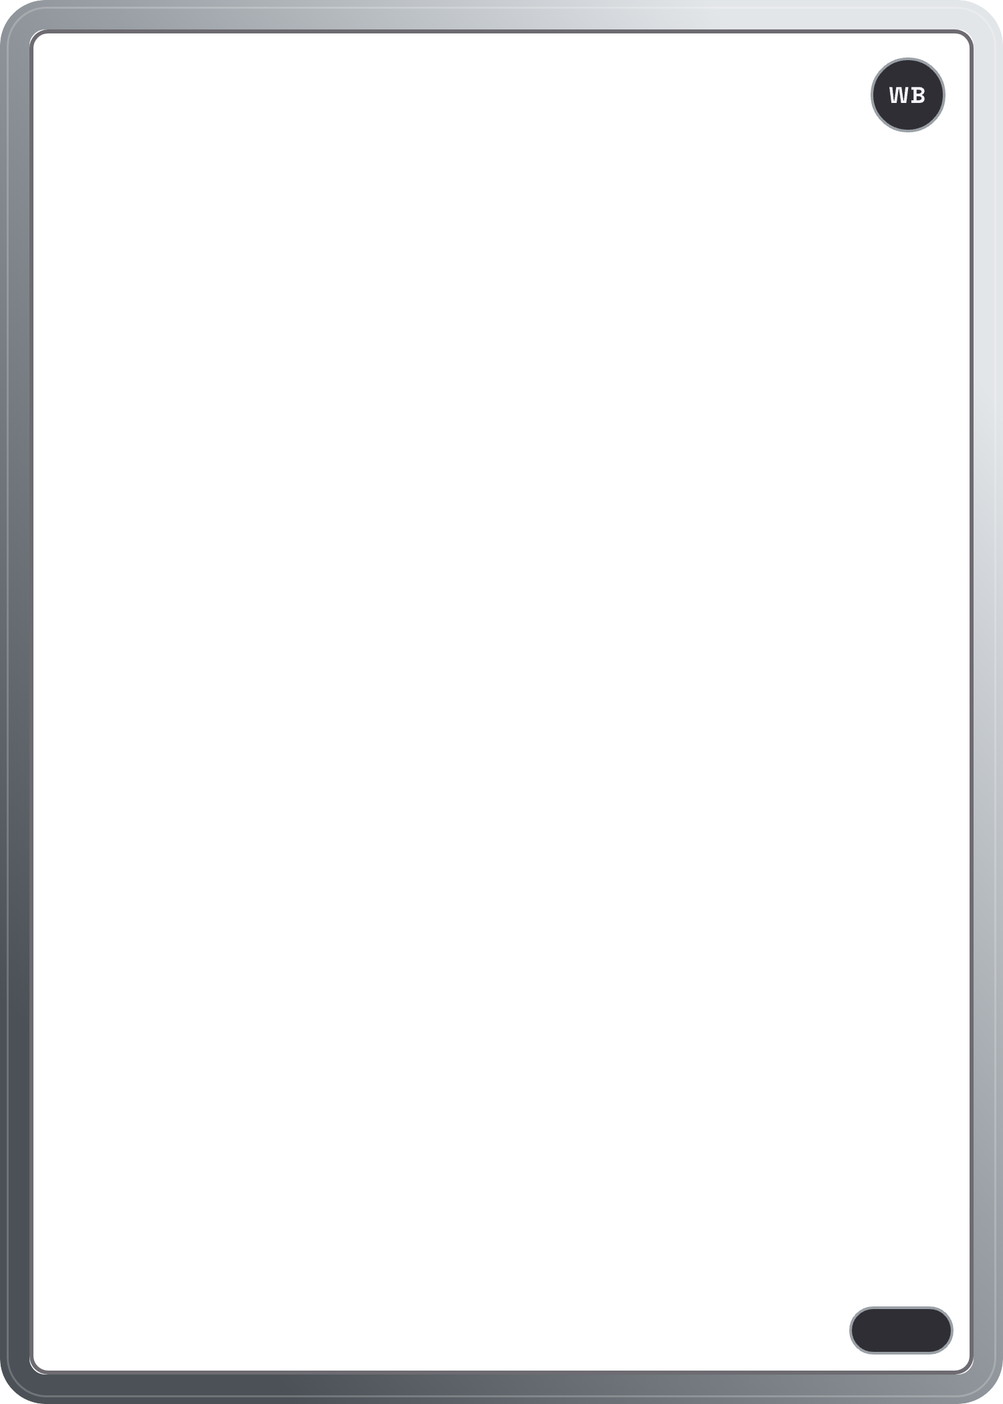
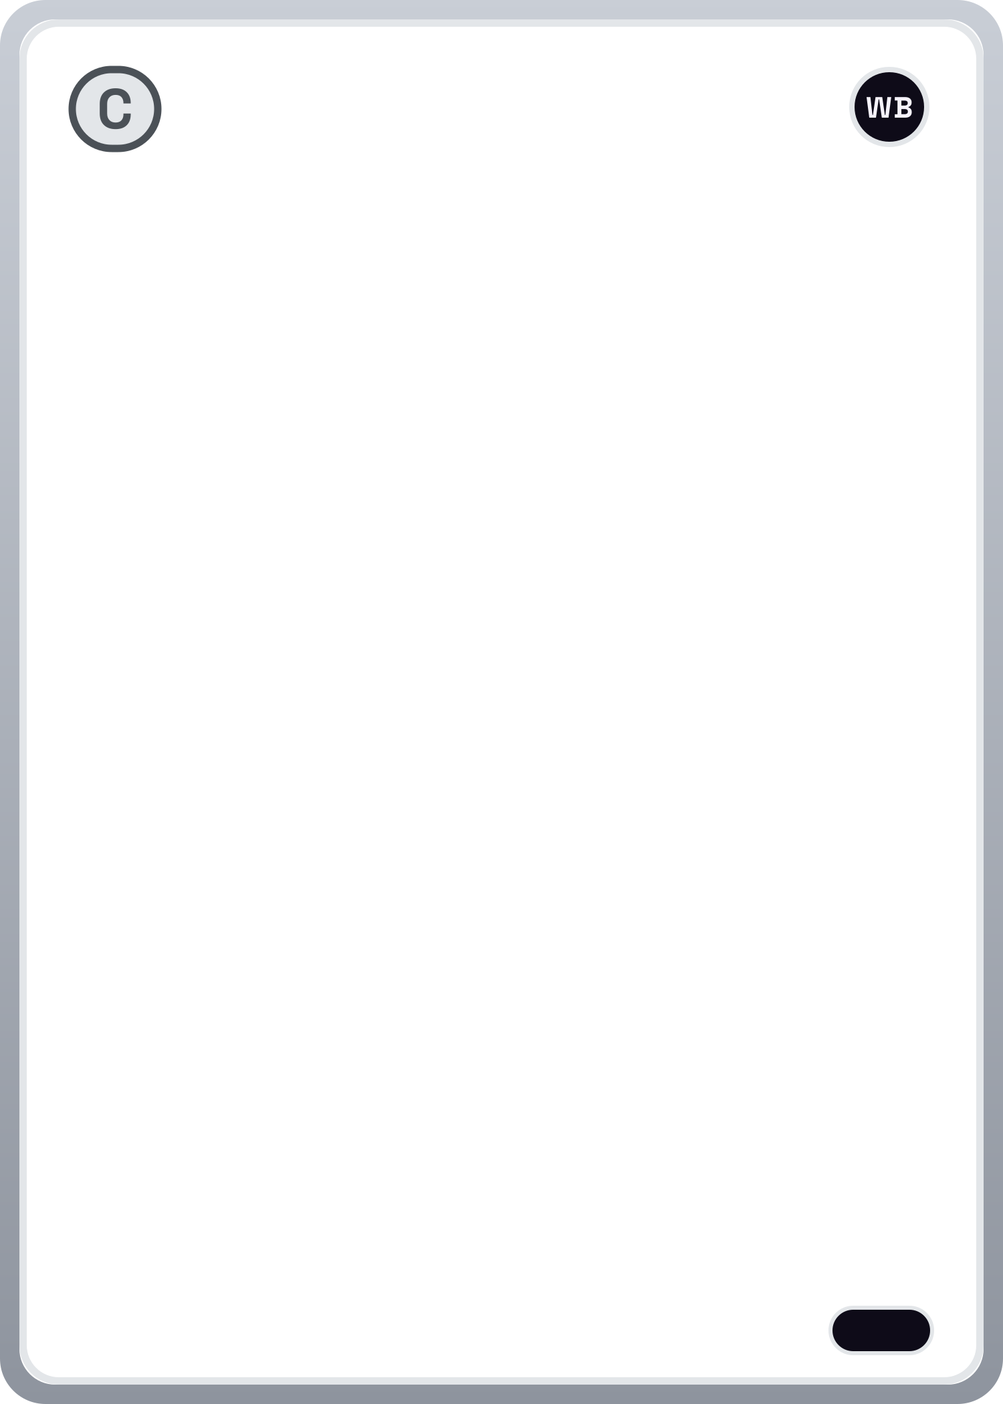
spec 022: marcos nuevos de las cinco rarezas, comunes planas, etiquetas plata/gold y tabla doble
Marcos de la maqueta aprobada en carta-capas.js (degradado, aura y grosor por escalón; sellos C, R, E,
LEG y EX) y en las cartas compuestas (scripts/frames.mjs). Las comunes no montan carta viva. La
etiqueta de tipo y Probabilidades siguen la maqueta; la migración 0017 cambia los sellos guardados.

Changed region(s): [[0.0, 0.0, 1.0, 1.0]]

diff --git a/apps/web/src/app/(app)/sobres/page.tsx b/apps/web/src/app/(app)/sobres/page.tsx
@@ -79,54 +79,54 @@ export default async function MisSobresPage() {
               // Spec 022, RF-19: el sobre gold va en su propio grupo y sus enlaces lo piden con `?k=gold`.
               const k = g.kind === "gold" ? "?k=gold" : "";
               return (
-              <li
-                key={`${g.setId}-${g.kind}`}
-                style={{ "--i": i } as React.CSSProperties}
-                className="card-in @container rounded-xl border border-k-lavanda/20 bg-linear-to-b from-ui-raised to-ui-nav p-5 shadow-[var(--shadow-glow)]"
-                data-testid={`group-${g.code}${g.kind === "gold" ? "-gold" : ""}`}
-                data-kind={g.kind}
-              >
-                <div className="flex flex-col items-center gap-5 @sm:flex-row">
-                  <div className="relative shrink-0">
-                    {/* Spec 014, RF-5 y RF-8: el sobre de la colección; detrás, la pila si hay más de uno. */}
-                    {g.sealed > 1 && <span aria-hidden className="absolute inset-x-3 inset-y-6 translate-x-3 rotate-6 rounded-xl bg-k-lavanda/30" />}
-                    <PackArt setId={g.setId} code={g.code} name={g.name} art={art.get(g.setId) ?? { coverVersion: null, packImage: null }} className="relative w-[200px] @sm:w-[170px]" />
-                  </div>
-                  <div className="flex w-full max-w-xs min-w-0 flex-1 flex-col gap-4 @sm:max-w-none">
-                    <div className="flex items-start justify-center gap-3 @sm:justify-between">
-                      <div className="hidden min-w-0 @sm:block">
-                        <p className="font-mono text-xs text-ui-text-3">{g.code}</p>
-                        <h2 className="line-clamp-2 font-display text-xl font-semibold">{g.name}</h2>
-                      </div>
-                      <div className="flex shrink-0 items-center gap-2">
-                        <PackKindTag kind={g.kind} label={t.common.packKind[g.kind]} />
-                        {!!fresh.get(g.setId) && (
-                          <span data-testid="new-packs">
-                            <Badge tone="new">{t.rewards.fx.newPacks(fresh.get(g.setId)!)}</Badge>
-                          </span>
-                        )}
-                        <Badge tone="accent" className="tabular-nums">x{g.sealed}</Badge>
-                      </div>
+                <li
+                  key={`${g.setId}-${g.kind}`}
+                  style={{ "--i": i } as React.CSSProperties}
+                  className="card-in @container rounded-xl border border-k-lavanda/20 bg-linear-to-b from-ui-raised to-ui-nav p-5 shadow-[var(--shadow-glow)]"
+                  data-testid={`group-${g.code}${g.kind === "gold" ? "-gold" : ""}`}
+                  data-kind={g.kind}
+                >
+                  <div className="flex flex-col items-center gap-5 @sm:flex-row">
+                    <div className="relative shrink-0">
+                      {/* Spec 014, RF-5 y RF-8: el sobre de la colección; detrás, la pila si hay más de uno. */}
+                      {g.sealed > 1 && <span aria-hidden className="absolute inset-x-3 inset-y-6 translate-x-3 rotate-6 rounded-xl bg-k-lavanda/30" />}
+                      <PackArt setId={g.setId} code={g.code} name={g.name} art={art.get(g.setId) ?? { coverVersion: null, packImage: null }} className="relative w-[200px] @sm:w-[170px]" />
                     </div>
-                    {g.locked ? (
-                      <p className="text-sm text-ui-danger-text">{t.packs.mine.locked}</p>
-                    ) : (
-                      <div className="flex flex-col gap-3">
-                        <Button size="lg" width="full" asChild>
-                          <Link href={`/sobres/${g.setId}${k}`}>{t.packs.mine.openOne}</Link>
-                        </Button>
-                        {g.sealed > 1 && (
-                          <Button size="lg" width="full" variant="secondary" asChild>
-                            <Link href={`/sobres/${g.setId}/todos${k}`}>{t.packs.mine.openAll(Math.min(g.sealed, 50))}</Link>
-                          </Button>
-                        )}
+                    <div className="flex w-full max-w-xs min-w-0 flex-1 flex-col gap-4 @sm:max-w-none">
+                      <div className="flex items-start justify-center gap-3 @sm:justify-between">
+                        <div className="hidden min-w-0 @sm:block">
+                          <p className="font-mono text-xs text-ui-text-3">{g.code}</p>
+                          <h2 className="line-clamp-2 font-display text-xl font-semibold">{g.name}</h2>
+                        </div>
+                        <div className="flex shrink-0 items-center gap-2">
+                          <PackKindTag kind={g.kind} label={t.common.packKind[g.kind]} />
+                          {!!fresh.get(g.setId) && (
+                            <span data-testid="new-packs">
+                              <Badge tone="new">{t.rewards.fx.newPacks(fresh.get(g.setId)!)}</Badge>
+                            </span>
+                          )}
+                          <Badge tone="accent" className="tabular-nums">x{g.sealed}</Badge>
+                        </div>
                       </div>
-                    )}
-                    {/* Spec 021, RF-9: cómo conseguir más sobres de una colección de Patreon (al final: las pruebas cuentan los enlaces de abrir). */}
-                    {!g.isFree && !g.locked && !patron && <PatreonNotice compact text={t.packs.mine.patreonMore} linkLabel={t.collection.patreon.link} url={patreonUrl} />}
+                      {g.locked ? (
+                        <p className="text-sm text-ui-danger-text">{t.packs.mine.locked}</p>
+                      ) : (
+                        <div className="flex flex-col gap-3">
+                          <Button size="lg" width="full" asChild>
+                            <Link href={`/sobres/${g.setId}${k}`}>{t.packs.mine.openOne}</Link>
+                          </Button>
+                          {g.sealed > 1 && (
+                            <Button size="lg" width="full" variant="secondary" asChild>
+                              <Link href={`/sobres/${g.setId}/todos${k}`}>{t.packs.mine.openAll(Math.min(g.sealed, 50))}</Link>
+                            </Button>
+                          )}
+                        </div>
+                      )}
+                      {/* Spec 021, RF-9: cómo conseguir más sobres de una colección de Patreon (al final: las pruebas cuentan los enlaces de abrir). */}
+                      {!g.isFree && !g.locked && !patron && <PatreonNotice compact text={t.packs.mine.patreonMore} linkLabel={t.collection.patreon.link} url={patreonUrl} />}
+                    </div>
                   </div>
-                </div>
-              </li>
+                </li>
               );
             })}
           </ul>

diff --git a/apps/web/src/app/drop-rates/page.tsx b/apps/web/src/app/drop-rates/page.tsx
@@ -40,56 +40,63 @@ export default async function DropRatesPage() {
                 <Badge tone={set.isFree ? "success" : "accent"}>{set.isFree ? t.site.dropRates.how.free : t.site.dropRates.how.patreon}</Badge>
               </span>
             </h2>
-            {/* Spec 022, RF-20: las dos tablas de la colección, plata y gold. */}
-            {([["silver", odds], ["gold", gold]] as const).map(([kind, table]) =>
-              table ? (
-                <div key={kind} className="space-y-2" data-testid={`odds-${set.code}-${kind}`}>
-                  <h3 className="flex flex-wrap items-center gap-2">
+            {/* Spec 022, RF-20: las dos tablas de la colección en una, con la columna «Sobre» (maqueta aprobada). */}
+            <ul className="space-y-1 text-sm">
+              {([["silver", odds], ["gold", gold]] as const).map(([kind, table]) =>
+                table ? (
+                  <li key={kind} className="flex flex-wrap items-center gap-2 text-ui-text-3" data-testid={`published-${set.code}-${kind}`}>
                     <PackKindTag kind={kind} label={t.common.packKind[kind]} />
-                    <span className="text-sm text-ui-text-2">{t.site.dropRates.guarantee[kind]}</span>
-                  </h3>
-                  <p className="text-sm text-ui-text-3">
-                    {t.site.dropRates.published({
-                      date: table.publishedAt ? formatDate(locale, table.publishedAt) : "",
-                      version: table.version,
-                      packSize: set.packSize,
-                      holo: pct(table.holoChance * 100),
-                    })}
-                  </p>
-                  {kind === "silver" && (
-                    <p className="text-sm text-ui-text-2" data-testid={`pity-${set.code}`}>
-                      {table.pityThreshold > 0 ? t.site.dropRates.pity(table.pityThreshold - 1) : t.site.dropRates.noPity}
-                    </p>
-                  )}
-                  <div className="overflow-x-auto rounded-l border border-ui-line">
-                    <table className="w-full text-sm">
-                      <thead className="bg-ui-raised text-xs uppercase tracking-wider text-ui-text-3">
-                        <tr>
-                          <th className="px-3 py-2 text-left">{t.site.dropRates.slot}</th>
+                    <span>
+                      {t.site.dropRates.guarantee[kind]}{" "}
+                      {t.site.dropRates.published({
+                        date: table.publishedAt ? formatDate(locale, table.publishedAt) : "",
+                        version: table.version,
+                        packSize: set.packSize,
+                        holo: pct(table.holoChance * 100),
+                      })}
+                    </span>
+                  </li>
+                ) : null,
+              )}
+            </ul>
+            <p className="text-sm text-ui-text-2" data-testid={`pity-${set.code}`}>
+              {odds.pityThreshold > 0 ? t.site.dropRates.pity(odds.pityThreshold - 1) : t.site.dropRates.noPity}
+            </p>
+            <div className="overflow-x-auto rounded-l border border-ui-line">
+              <table className="w-full text-sm">
+                <thead className="bg-ui-raised text-xs uppercase tracking-wider text-ui-text-3">
+                  <tr>
+                    <th className="px-3 py-2 text-left">{t.site.dropRates.pack}</th>
+                    <th className="px-3 py-2 text-left">{t.site.dropRates.slot}</th>
+                    {RARITIES.map((r) => (
+                      <th key={r} className="px-3 py-2 text-right">
+                        {t.common.rarity[r]}
+                      </th>
+                    ))}
+                  </tr>
+                </thead>
+                {([["silver", odds], ["gold", gold]] as const).map(([kind, table]) =>
+                  table ? (
+                    <tbody key={kind} data-testid={`odds-${set.code}-${kind}`} className={kind === "gold" ? "bg-k-limon/7" : "bg-ui-nav"}>
+                      {table.slots.map((s, i) => (
+                        <tr key={i} className="border-t border-ui-line">
+                          <td className={`px-3 py-2 font-semibold ${kind === "gold" ? "text-k-limon-oscuro" : "text-ui-text-2"}`}>{t.common.packKind[kind]}</td>
+                          <td className="px-3 py-2">
+                            {i + 1}
+                            {i === table.slots.length - 1 && <span className="ml-1 text-ui-text-3">{t.site.dropRates.guaranteedSlot}</span>}
+                          </td>
                           {RARITIES.map((r) => (
-                            <th key={r} className="px-3 py-2 text-right">
-                              {t.common.rarity[r]}
-                            </th>
+                            <td key={r} className="px-3 py-2 text-right tabular-nums">
+                              {s[r] ? pct(s[r]) : "—"}
+                            </td>
                           ))}
                         </tr>
-                      </thead>
-                      <tbody>
-                        {table.slots.map((s, i) => (
-                          <tr key={i} className="border-t border-ui-line">
-                            <td className="px-3 py-2">{i + 1}</td>
-                            {RARITIES.map((r) => (
-                              <td key={r} className="px-3 py-2 text-right tabular-nums">
-                                {s[r] ? pct(s[r]) : "—"}
-                              </td>
-                            ))}
-                          </tr>
-                        ))}
-                      </tbody>
-                    </table>
-                  </div>
-                </div>
-              ) : null,
-            )}
+                      ))}
+                    </tbody>
+                  ) : null,
+                )}
+              </table>
+            </div>
           </section>
         ))}
         {/* Spec 020, RF-26: probabilidad de encontrar un sobre al volver de una expedición, por zona y duración. */}

diff --git a/apps/web/src/ui/game/carta-capas/carta-capas.js b/apps/web/src/ui/game/carta-capas/carta-capas.js
@@ -7,7 +7,7 @@
  *   const carta = CartaCapas.montar(document.querySelector('#carta'), {
  *     etiqueta: 'Yuki, SSR',
  *     marco: 'ssr',                       // 'ur' | 'ssr' | 'sr' | 'r' | 'n' | 'ninguno' | un gradiente CSS
- *     borde: 2.2,                         // grosor del marco en % del ancho
+ *     borde: 2.2,                         // grosor del marco en % del ancho (sin él, el de su escalón)
  *     capas: [                            // de atrás hacia adelante
  *       { src: 'yuki_1_fondo.webp',       profundidad: 0.2,  margen: 5 },
  *       { particulas: 'destellos-dorados', profundidad: 0.55, margen: 4 },
@@ -48,12 +48,14 @@
 (function (global) {
   'use strict';
 
+  // Spec 022, RF-9: los marcos de la maqueta aprobada (lámina «Rarezas y sobres plata y gold»): degradado, aura y
+  // grosor propio de cada escalón (n común, r rara, sr épica, ssr legendaria, ur EX).
   var MARCOS = {
-    ur:  ['linear-gradient(135deg,#ff7aa8 0%,#ffd36e 17%,#8af0c4 33%,#ffffff 48%,#6ec8ff 62%,#c79bff 80%,#ff7aa8 100%)', 'rgba(200,160,255,.28)'],
-    ssr: ['linear-gradient(135deg,#6e4a12 0%,#f7dc8a 18%,#b9862d 34%,#fff3c4 48%,#a0701f 62%,#f2cf6e 80%,#6e4a12 100%)', 'rgba(240,190,90,.24)'],
-    sr:  ['linear-gradient(135deg,#4b2a7a 0%,#d4b8ff 20%,#8a5cd6 38%,#f1e6ff 50%,#7344c2 64%,#c9a6ff 82%,#4b2a7a 100%)', 'rgba(170,120,255,.22)'],
-    r:   ['linear-gradient(135deg,#1f3f7a 0%,#a9ccff 20%,#4a7fd6 38%,#e6f0ff 50%,#3c6cc2 64%,#9cc2ff 82%,#1f3f7a 100%)', 'rgba(110,160,255,.2)'],
-    n:   ['linear-gradient(135deg,#5a6070 0%,#e4e8ef 22%,#9aa1b0 40%,#ffffff 50%,#8a91a0 64%,#d6dbe4 82%,#5a6070 100%)', 'rgba(220,225,235,.12)']
+    ur:  ['conic-gradient(from 90deg,#ff7eb6,#b79cff,#7cc8ff,#7ef0c9,#ff7eb6)', 'rgba(255,126,182,.34)', 4.8],
+    ssr: ['linear-gradient(135deg,#fff1a8 0%,#f5c451 45%,#b7791f 100%)', 'rgba(245,196,81,.32)', 4.3],
+    sr:  ['linear-gradient(135deg,#e9b8ff 0%,#8b3fd9 100%)', 'rgba(139,63,217,.3)', 3.3],
+    r:   ['linear-gradient(135deg,#9fd3ff 0%,#3b82f6 100%)', 'rgba(59,130,246,.22)', 2.9],
+    n:   ['linear-gradient(180deg,#c9ced6 0%,#8e949e 100%)', 'rgba(220,225,235,.12)', 1.9]
   };
   MARCOS.epica = MARCOS.sr; MARCOS.rara = MARCOS.r; MARCOS.comun = MARCOS.n;
 
@@ -201,7 +203,7 @@
   function montar(el, opciones) {
     inyectarCSS();
     var op = Object.assign({
-      capas: [], sello: null, marco: 'ssr', aura: null, borde: 2.2, holo: false,
+      capas: [], sello: null, marco: 'ssr', aura: null, borde: null, holo: false,
       profundidad: 14, inclinacion: 14, reposo: true, zona: null,
       proporcion: 700 / 991, etiqueta: 'Carta', aparecer: true
     }, opciones || {});
@@ -259,7 +261,7 @@
       card.classList.toggle('cc-sin-marco', sin);
       card.style.setProperty('--cc-marco', sin ? 'none' : m[0]);
       card.style.setProperty('--cc-aura', op.aura || m[1] || 'rgba(255,255,255,.12)');
-      card.style.setProperty('--cc-borde', num(op.borde, 2.2) + 'cqw');
+      card.style.setProperty('--cc-borde', num(op.borde, m[2] || 2.2) + 'cqw');
       card.classList.toggle('cc-con-holo', !!op.holo);
 
       if (primera && op.aparecer) {
@@ -401,11 +403,11 @@
 
   /* ---------- presets por rareza ---------- */
   var PRESETS = {
-    n:   { marco: 'n',   particulas: null, sello: null, holo: false },
-    r:   { marco: 'r',   particulas: { particulas: 'destellos-arcoiris', cantidad: 16, tamano: 0.8, opacidad: 0.75 }, sello: null, holo: false },
-    sr:  { marco: 'sr',  particulas: { particulas: 'destellos-arcoiris', cantidad: 36 }, sello: { texto: 'SR', estilo: 'morado', tamano: 12 }, holo: false },
-    ssr: { marco: 'ssr', particulas: { particulas: 'destellos-dorados', cantidad: 55 }, sello: { texto: 'SSR', estilo: 'oro', tamano: 14 }, holo: false },
-    ur:  { marco: 'ur',  particulas: { particulas: 'destellos-arcoiris', cantidad: 65 }, sello: { texto: 'UR', estilo: 'arcoiris', tamano: 14 }, holo: true }
+    n:   { marco: 'n',   particulas: null, sello: { texto: 'C', estilo: 'plata', tamano: 10 }, holo: false },
+    r:   { marco: 'r',   particulas: { particulas: 'destellos-arcoiris', cantidad: 16, tamano: 0.8, opacidad: 0.75 }, sello: { texto: 'R', estilo: 'azul', tamano: 10 }, holo: false },
+    sr:  { marco: 'sr',  particulas: { particulas: 'destellos-arcoiris', cantidad: 36 }, sello: { texto: 'E', estilo: 'morado', tamano: 12 }, holo: false },
+    ssr: { marco: 'ssr', particulas: { particulas: 'destellos-dorados', cantidad: 55 }, sello: { texto: 'LEG', estilo: 'oro', tamano: 13 }, holo: false },
+    ur:  { marco: 'ur',  particulas: { particulas: 'destellos-arcoiris', cantidad: 65 }, sello: { texto: 'EX', estilo: 'arcoiris', tamano: 14 }, holo: true }
   };
   PRESETS.comun = PRESETS.n; PRESETS.rara = PRESETS.r; PRESETS.epica = PRESETS.sr;
 

diff --git a/apps/web/src/domain/cards/layers-rarity.ts b/apps/web/src/domain/cards/layers-rarity.ts
@@ -10,11 +10,12 @@ interface Preset {
 
 /** Los mismos valores que `PRESETS` de carta-capas.js (n, r, sr, ssr, ur). */
 export const TIER_PRESETS: Record<RarityTier, Preset> = {
-  n: { particles: null, seal: null, holo: false },
-  r: { particles: { particulas: "destellos-arcoiris", cantidad: 16, tamano: 0.8, opacidad: 0.75 }, seal: null, holo: false },
-  sr: { particles: { particulas: "destellos-arcoiris", cantidad: 36 }, seal: { texto: "SR", estilo: "morado", tamano: 12 }, holo: false },
-  ssr: { particles: { particulas: "destellos-dorados", cantidad: 55 }, seal: { texto: "SSR", estilo: "oro", tamano: 14 }, holo: false },
-  ur: { particles: { particulas: "destellos-arcoiris", cantidad: 65 }, seal: { texto: "UR", estilo: "arcoiris", tamano: 14 }, holo: true },
+  // Spec 022: un sello por rareza, como en la maqueta (C, R, E, LEG, EX).
+  n: { particles: null, seal: { texto: "C", estilo: "plata", tamano: 10 }, holo: false },
+  r: { particles: { particulas: "destellos-arcoiris", cantidad: 16, tamano: 0.8, opacidad: 0.75 }, seal: { texto: "R", estilo: "azul", tamano: 10 }, holo: false },
+  sr: { particles: { particulas: "destellos-arcoiris", cantidad: 36 }, seal: { texto: "E", estilo: "morado", tamano: 12 }, holo: false },
+  ssr: { particles: { particulas: "destellos-dorados", cantidad: 55 }, seal: { texto: "LEG", estilo: "oro", tamano: 13 }, holo: false },
+  ur: { particles: { particulas: "destellos-arcoiris", cantidad: 65 }, seal: { texto: "EX", estilo: "arcoiris", tamano: 14 }, holo: true },
 };
 
 /**

diff --git a/apps/web/src/server/services/live-card.ts b/apps/web/src/server/services/live-card.ts
@@ -3,7 +3,7 @@
 import { and, eq } from "drizzle-orm";
 import { cards, sets, userCards, users } from "@/db/schema";
 import { imageKeys, isImageLayer, isImageSeal, type LayersConfig, type ParticleLayer } from "@/domain/cards/layers";
-import { rarityTier } from "@/domain/catalog/rarity-tier";
+import { isFlat, rarityTier } from "@/domain/catalog/rarity-tier";
 import type { LiveCard, LiveImageLayer, LiveSeal } from "@/domain/cards/live";
 import { verifyLayer } from "@/domain/signed-url";
 import { cardLayerUrl, imageSecret } from "@/server/cards/image-urls";
@@ -31,7 +31,8 @@ async function visibleCard(db: DbLike, userId: string, cardId: string) {
 /** RF-16 y RF-17: la configuración vigente de la carta con enlaces firmados; `null` si no la tiene o no puede verla. */
 export async function liveCardConfig(db: DbLike, userId: string, cardId: string, now = Date.now()): Promise<LiveCard | null> {
   const card = await visibleCard(db, userId, cardId);
-  if (!card?.layers) return null;
+  // Spec 022, RF-4: la común se ve plana (su imagen fija, con el brillo holo si toca), también al revelarla y en su ficha.
+  if (!card?.layers || isFlat(card.rarity)) return null;
   const url = (key: string) => cardLayerUrl(cardId, key, userId, now);
   const capas = card.layers.capas.map((l): LiveImageLayer | ParticleLayer => {
     if (!isImageLayer(l)) return { ...l };

diff --git a/apps/web/src/features/packs/PackKindTag.tsx b/apps/web/src/features/packs/PackKindTag.tsx
@@ -1,9 +1,10 @@
 import type { PackKind } from "@/domain/catalog/default-odds";
 import { cx } from "@/ui/variants";
 
+// Colores de la maqueta aprobada (lámina «Rarezas y sobres plata y gold», grupo de «Mis sobres»).
 const TONE: Record<PackKind, string> = {
-  silver: "bg-linear-to-b from-k-plata to-k-plata-oscuro",
-  gold: "bg-linear-to-b from-k-oro to-k-oro-oscuro",
+  silver: "bg-k-plata-oscuro text-k-plata",
+  gold: "bg-k-oro-oscuro text-k-oro",
 };
 
 /** Spec 022, RF-19: la etiqueta PLATA o GOLD de un sobre, en «Mis sobres», la apertura y «Abrir todos». */
@@ -12,7 +13,7 @@ export function PackKindTag({ kind, label, className }: { kind: PackKind; label:
     <span
       data-testid="pack-kind"
       data-kind={kind}
-      className={cx("inline-flex items-center rounded-full border-2 border-k-blanco px-2.5 py-0.5 font-display text-[12px] font-bold tracking-wider text-k-tinta uppercase shadow-[var(--shadow-sticker)]", TONE[kind], className)}
+      className={cx("inline-flex items-center rounded-full px-2.5 py-0.5 font-display text-[12px] font-bold tracking-[0.12em] uppercase", TONE[kind], className)}
     >
       {label}
     </span>

diff --git a/apps/web/src/server/cards/compose.ts b/apps/web/src/server/cards/compose.ts
@@ -56,8 +56,8 @@ function frameFor(rarity: Rarity | null) {
 
 const pango = (s: string) => s.replace(/&/g, "&amp;").replace(/</g, "&lt;").replace(/>/g, "&gt;");
 
-/** Pastilla de numeración del diseño en Pencil (x 636, y 978, 76 × 34 a 750 px), multiplicada por 2. */
-const NUMBER_PILL = { left: 1272, top: 1956, width: 152, height: 68, size: 30, weight: "SemiBold" };
+/** Pastilla de numeración (x 621, y 978, 76 × 34 a 750 px, multiplicada por 2); spec 022: algo más a la izquierda para dejar sitio a la gema de la esquina. */
+const NUMBER_PILL = { left: 1242, top: 1956, width: 152, height: 68, size: 30, weight: "SemiBold" };
 
 async function renderText(text: string, size: number, weight: string, color: string, letterSpacing = 0) {
   return sharp({

diff --git a/apps/web/src/ui/tokens.css b/apps/web/src/ui/tokens.css
@@ -56,10 +56,10 @@
   --ui-k-chocolate: #7a4a2e;
   --ui-k-llama: #ff9a62;
   /* Spec 022: sobres plata y gold. */
-  --ui-k-plata: #eef1f7;
-  --ui-k-plata-oscuro: #aab3c5;
-  --ui-k-oro: #ffe28a;
-  --ui-k-oro-oscuro: #d39b2a;
+  --ui-k-plata: #e3e6e9;
+  --ui-k-plata-oscuro: #4b5157;
+  --ui-k-oro: #fff1a8;
+  --ui-k-oro-oscuro: #5a3a00;
 
   /* Capas (de abajo arriba). */
   --z-nav: 20;
@@ -110,6 +110,7 @@
   --color-k-plata-oscuro: var(--ui-k-plata-oscuro);
   --color-k-oro: var(--ui-k-oro);
   --color-k-oro-oscuro: var(--ui-k-oro-oscuro);
+  --color-k-limon-oscuro: var(--ui-k-limon-oscuro);
 
   --font-sans: var(--font-body), system-ui, sans-serif;
   --font-mono: var(--font-geist-mono), ui-monospace, monospace;

diff --git a/apps/web/src/i18n/dictionaries/en/site.ts b/apps/web/src/i18n/dictionaries/en/site.ts
@@ -29,6 +29,8 @@ export const site = {
     // Spec 022, RF-14, RF-15 and RF-20.
     guarantee: { silver: "Every silver pack brings at least one Rare or better.", gold: "Every gold pack brings at least one Epic or better." },
     slot: "Slot",
+    pack: "Pack",
+    guaranteedSlot: "(guaranteed)",
     // Spec 021, RF-10: how each set is obtained.
     how: { free: "Free", patreon: "With the subscription" },
   },

diff --git a/apps/web/src/i18n/dictionaries/es/site.ts b/apps/web/src/i18n/dictionaries/es/site.ts
@@ -29,6 +29,8 @@ export const site: typeof en = {
     // Spec 022, RF-14, RF-15 y RF-20.
     guarantee: { silver: "Cada sobre plata trae al menos una carta Rara o mejor.", gold: "Cada sobre gold trae al menos una carta Épica o mejor." },
     slot: "Ranura",
+    pack: "Sobre",
+    guaranteedSlot: "(garantía)",
     how: { free: "Gratis", patreon: "Con la suscripción" },
   },
   notFound: {
